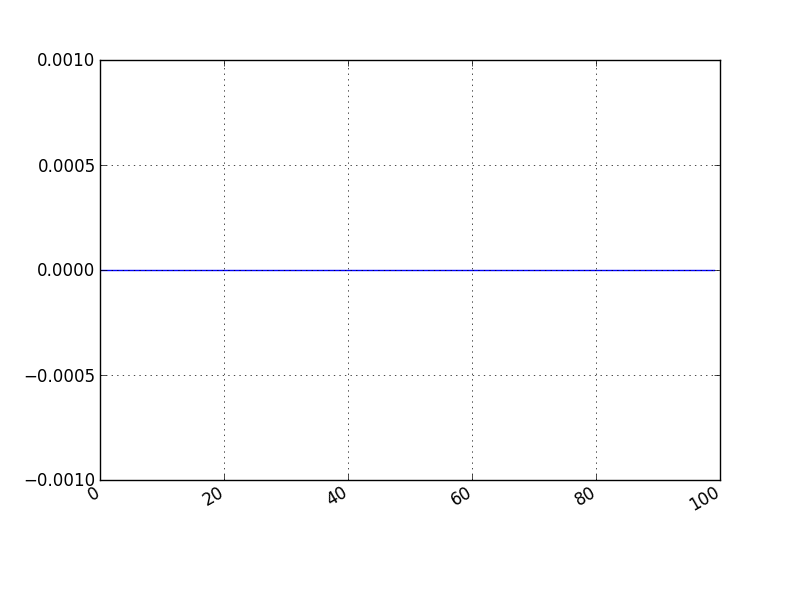
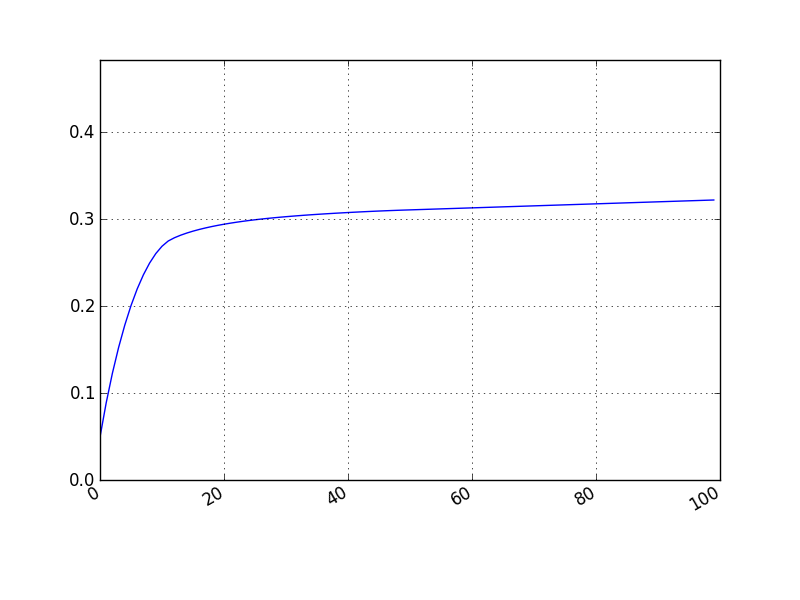
Serve cdf over telnet

diff --git a/memcached-1.4.20/memcached.c b/memcached-1.4.20/memcached.c
@@ -86,6 +86,8 @@ static void conn_to_str(const conn *c, char *buf);
 #ifdef MIMIR
 static void process_stat_ghostplus(ADD_STAT add_stats, void *c);
 static void process_stat_plus(ADD_STAT add_stats, void *c);
+static void process_stat_pluscdf(ADD_STAT add_stats, void *c);
+void make_unnormalized_cdf_from_plus(float *cdf, int clsid);
 #endif
 
 
@@ -2798,6 +2800,20 @@ static void process_stat_plus(ADD_STAT add_stats, void *c) {
     }
 }
 
+static void process_stat_pluscdf(ADD_STAT add_stats, void *c) {
+    assert(add_stats);
+    int i, clsid;
+    char buf[128];
+    float cdf[100];
+    for (clsid = 0; clsid <= get_power_largest(); clsid++) {
+      make_unnormalized_cdf_from_plus(cdf, clsid);
+      for (i = 0; i <100; i++) {
+         snprintf(buf, 128, "cdf_%d_%d", clsid, i);
+         APPEND_STAT(buf, "%f", cdf[i]);
+      }
+    }
+}
+
 static void process_stat_ghostplus(ADD_STAT add_stats, void *c) {
     assert(add_stats);
     int i, clsid;
@@ -2878,6 +2894,9 @@ static void process_stat(conn *c, token_t *tokens, const size_t ntokens) {
         // send the ghost HRC array as a reponse
         process_stat_ghrc(&append_stats, c);
     */
+    } else if (strncmp(subcommand, "pluscdf", 7) == 0) {
+        // send the PLUS array as a reponse
+        process_stat_pluscdf(&append_stats, c);
     } else if (strncmp(subcommand, "plus", 4) == 0) {
         // send the PLUS array as a reponse
         process_stat_plus(&append_stats, c);

diff --git a/statistics.c b/statistics.c
@@ -282,7 +282,6 @@ void update_mapped_plus(int clsid, int start, int end) {
 
 
 void statistics_hit(int clsid, item *e) {
-  // TODO: add to concurrent queue and let the background thread do this work
 #if USE_ROUNDER
   classstats *cs = &classes[clsid];
   age_if_full(clsid);
